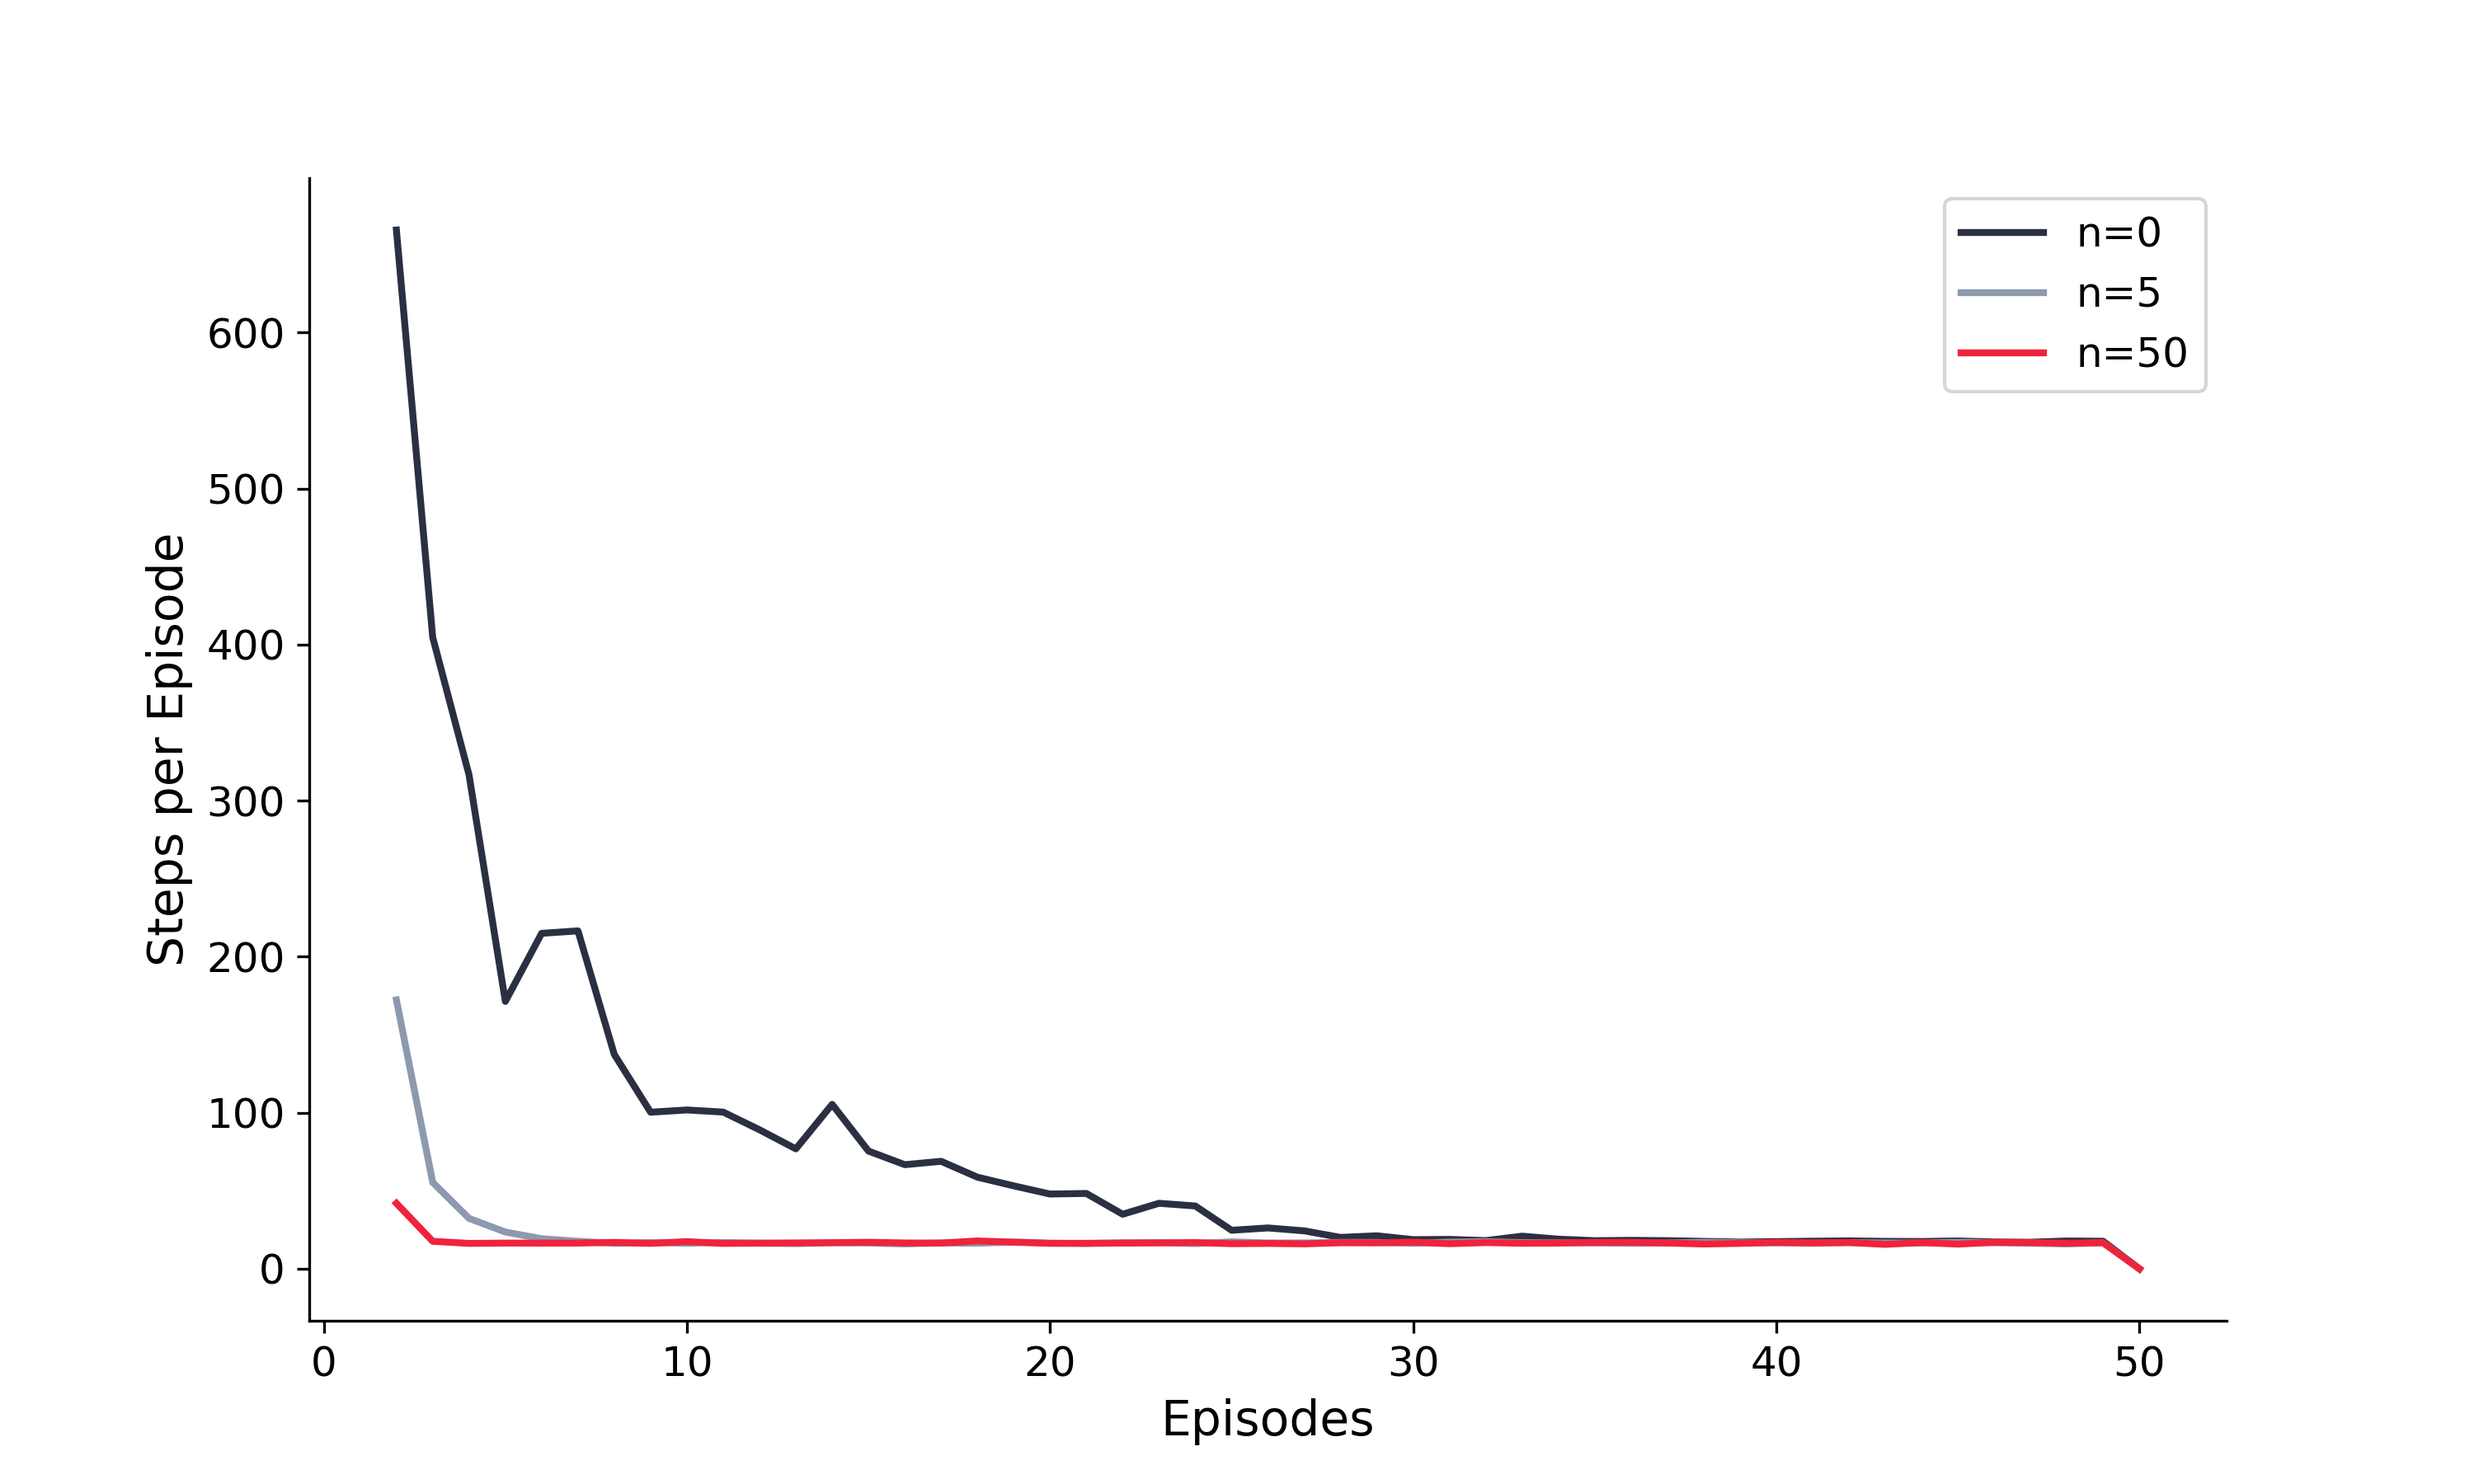
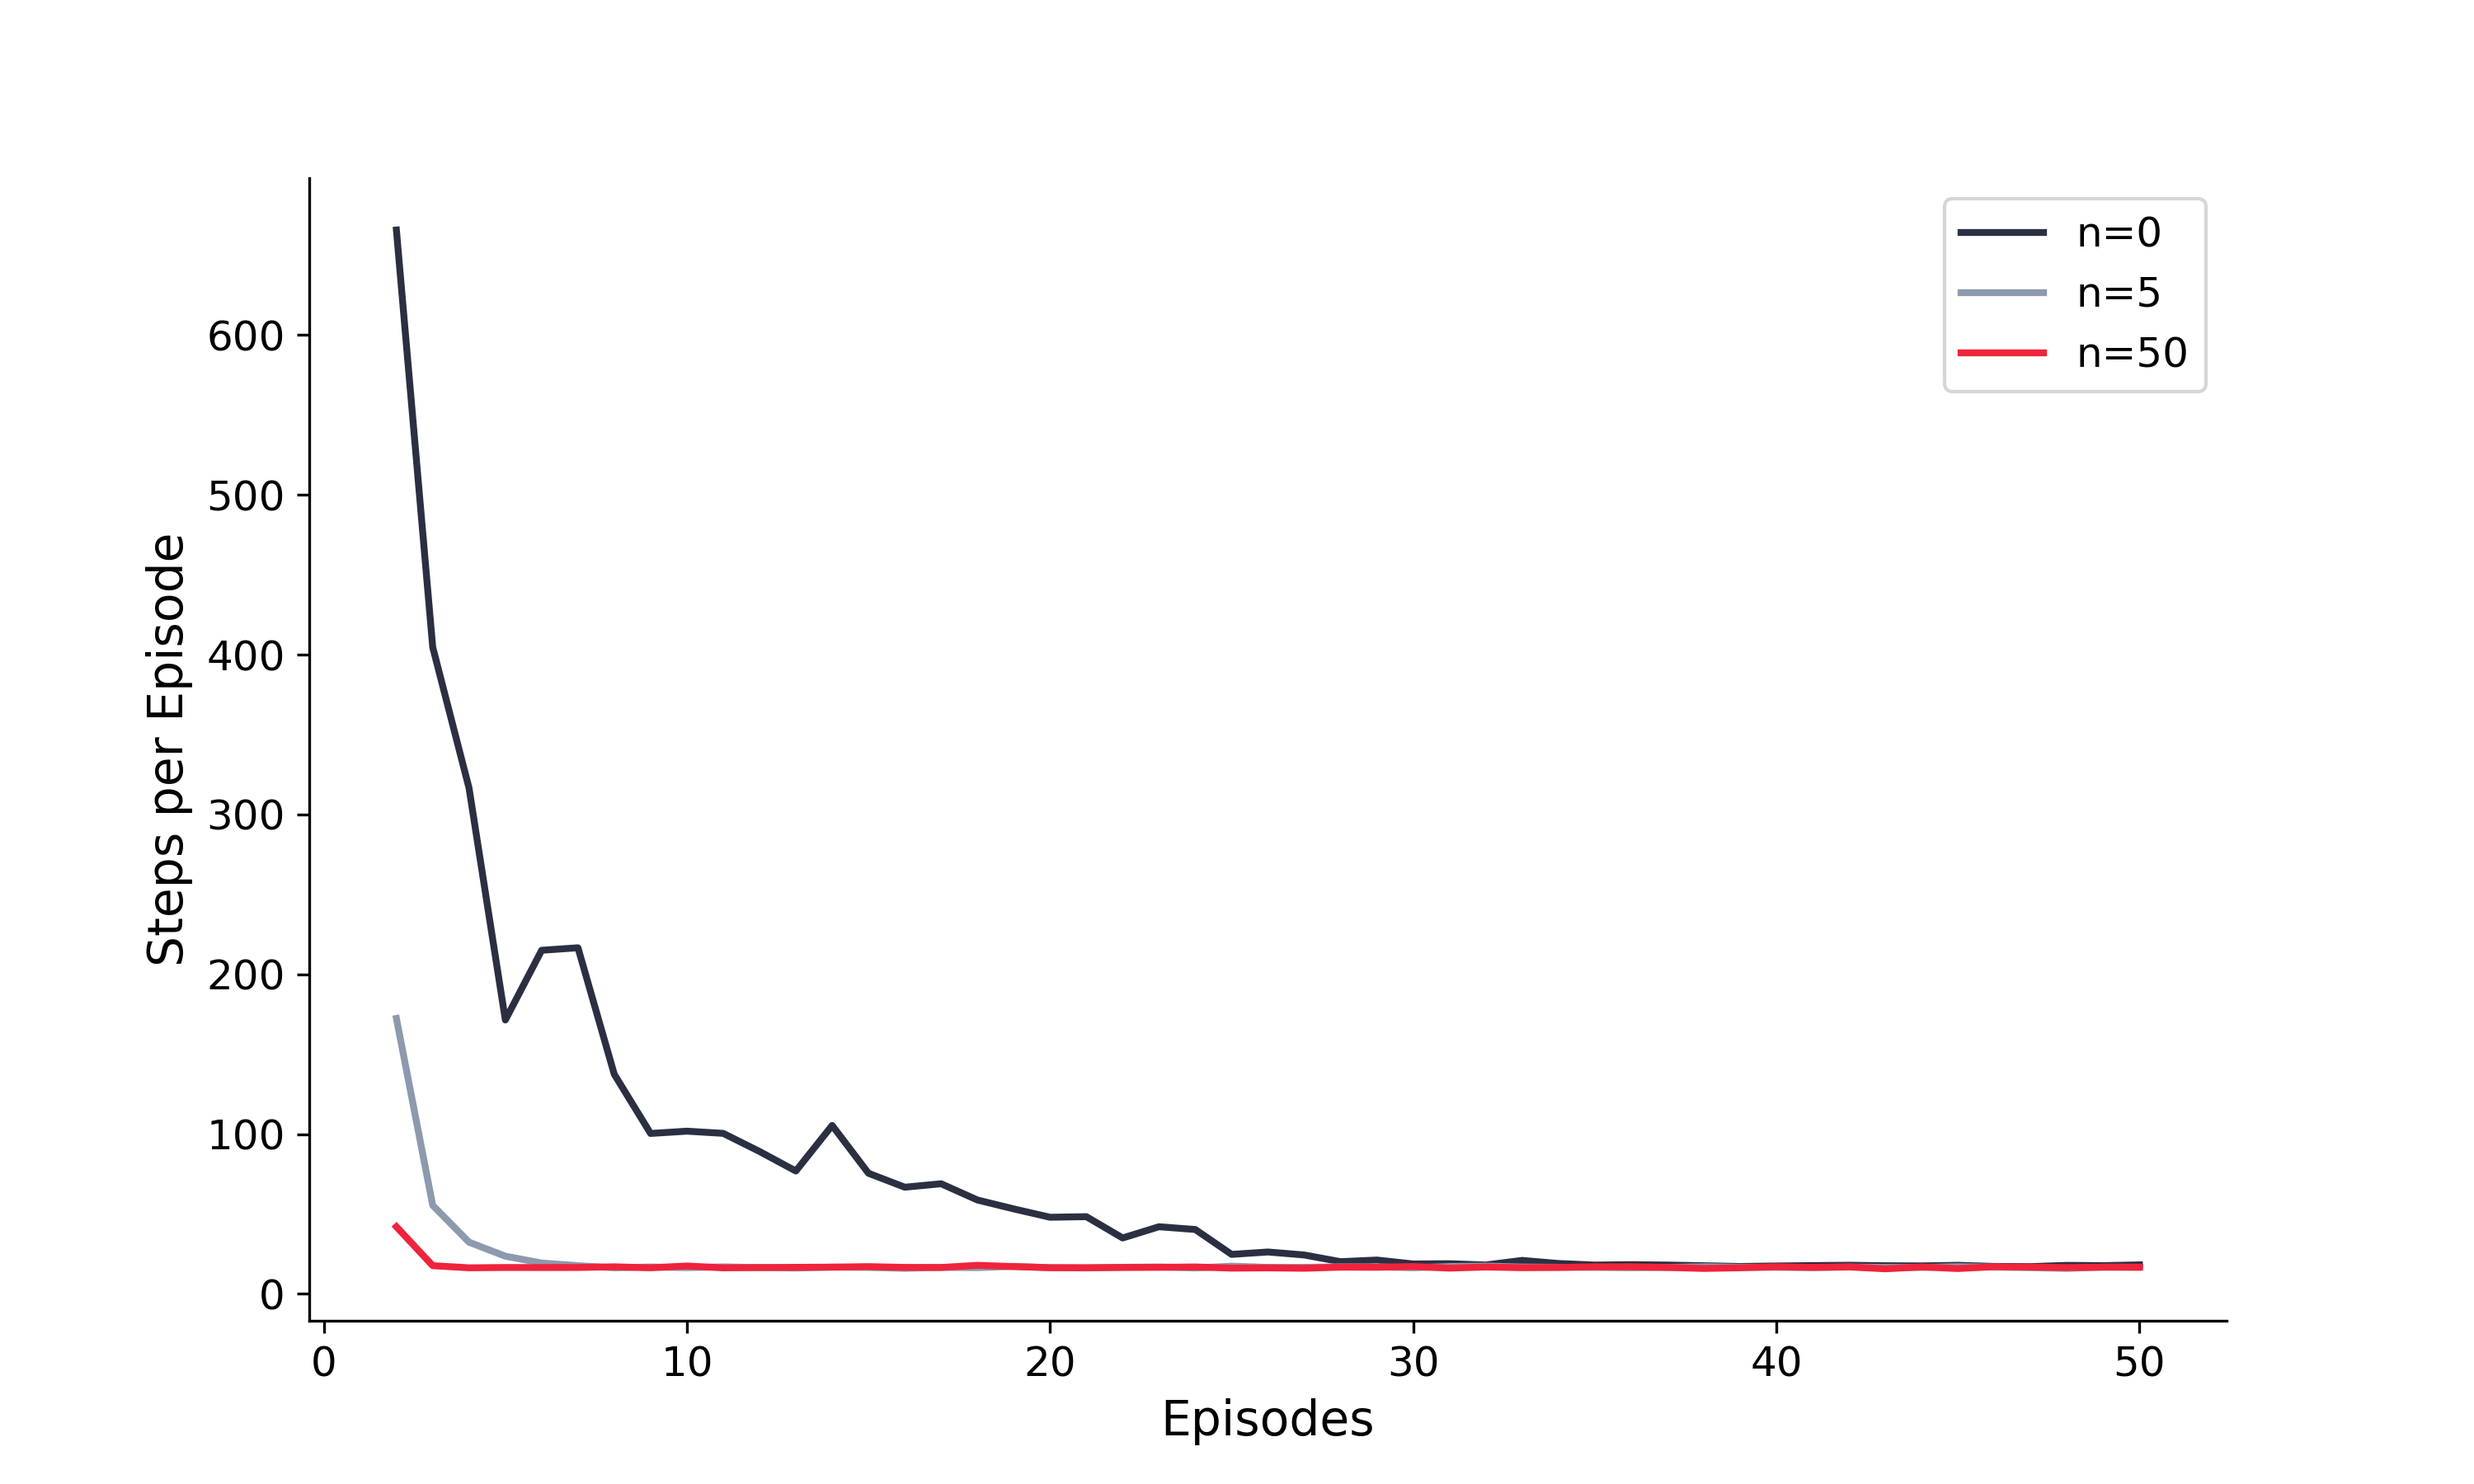
Changed to general env dimensions, and agents reset at each episode.

diff --git a/libs/utils/agent.py b/libs/utils/agent.py
@@ -12,7 +12,9 @@ class BaseAgent:
         self.alpha = args.get('alpha', 0.1)
         self.env = env
 
-        self.Q = np.zeros((env.height, env.width, env.action_space.n))
+        dims = (env.env_dimensions,) if type(env.env_dimensions) is int else env.env_dimensions
+        self.Q = np.zeros((*dims, env.action_space.n))
+        self.V = np.zeros(dims)
     
     def eps_greedy(self, s):
         """It's the epsilon greedy policy. With probability epsilon selects any action
@@ -29,6 +31,9 @@ class BaseAgent:
             return self.rnd_gen.randint(self.env.action_space.n)
         else:
             return self.rnd_gen.choice(np.where(np.max(self.Q[s]) == self.Q[s])[0])
+    
+    def reset(self, args):
+        return
         
     def step(self, s):
         return None, None, None

diff --git a/libs/envs/grid_world.py b/libs/envs/grid_world.py
@@ -4,11 +4,11 @@ import numpy as np
 
 class GridWorldEnv(gym.Env):
     def __init__(self, env_args):
-        self.width = env_args.get('n_cols', 9)
-        self.height = env_args.get('n_rows', 6)
+        self.env_dimensions = env_args.get('dimensions', (6, 9))
+        self.height, self.width = self.env_dimensions
         # The grid shows the position of each entity
         # 0: empty, 1: obstacle, 2: agent, 3: goal
-        self.grid = np.zeros((self.height, self.width), dtype=int)
+        self.grid = np.zeros(self.env_dimensions, dtype=int)
         self.start_state = env_args.get('start_state', (2, 0))
         self.goal_state = env_args.get('goal_state', (0, 8))
 

diff --git a/libs/utils/experiment.py b/libs/utils/experiment.py
@@ -33,10 +33,11 @@ def experiment(EnvClass, AgentClass, env_args, agent_args, experiment_args):
         total_reward = 0
         total_episodes = 0
 
-        while total_episodes < episodes - 1 and total_steps < max_steps - 1:
+        while total_episodes < episodes and total_steps < max_steps - 1:
             # Reset the environment (move agent to the start)
             # Gymnasium requires this step is called at the start of each episode
             s = env.reset()
+            agent.reset(s)
             terminated = False
             curr_steps = 0
 
